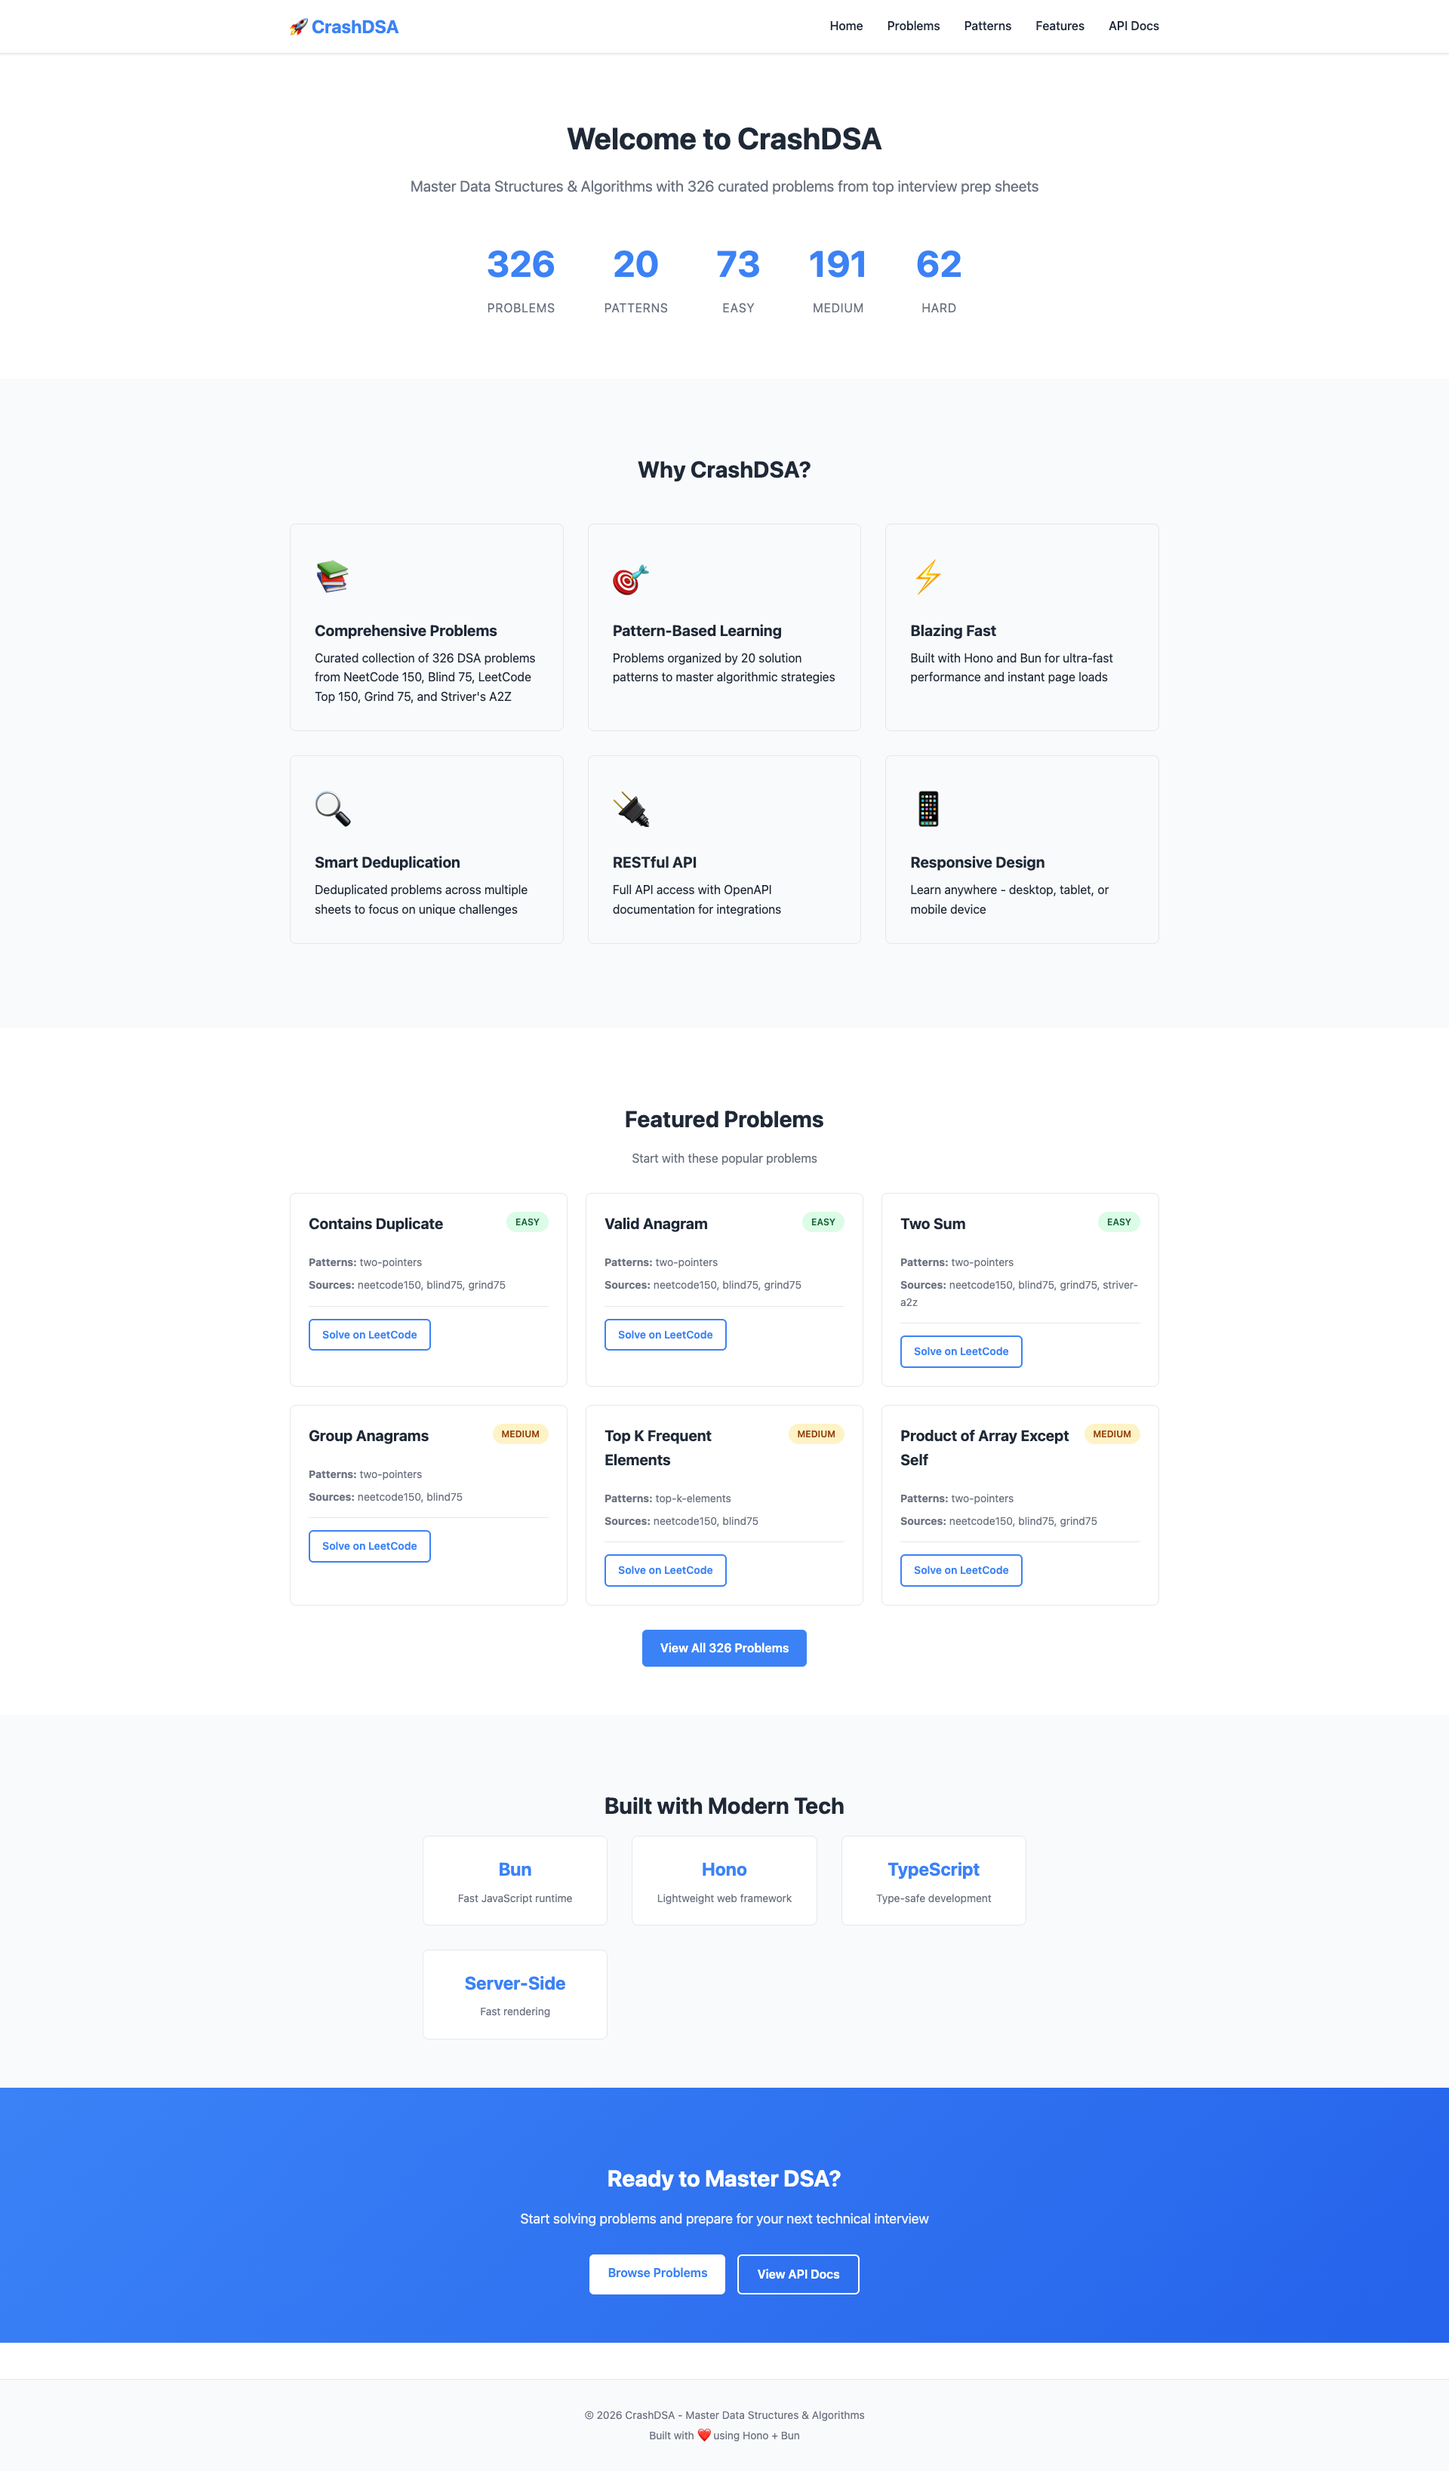
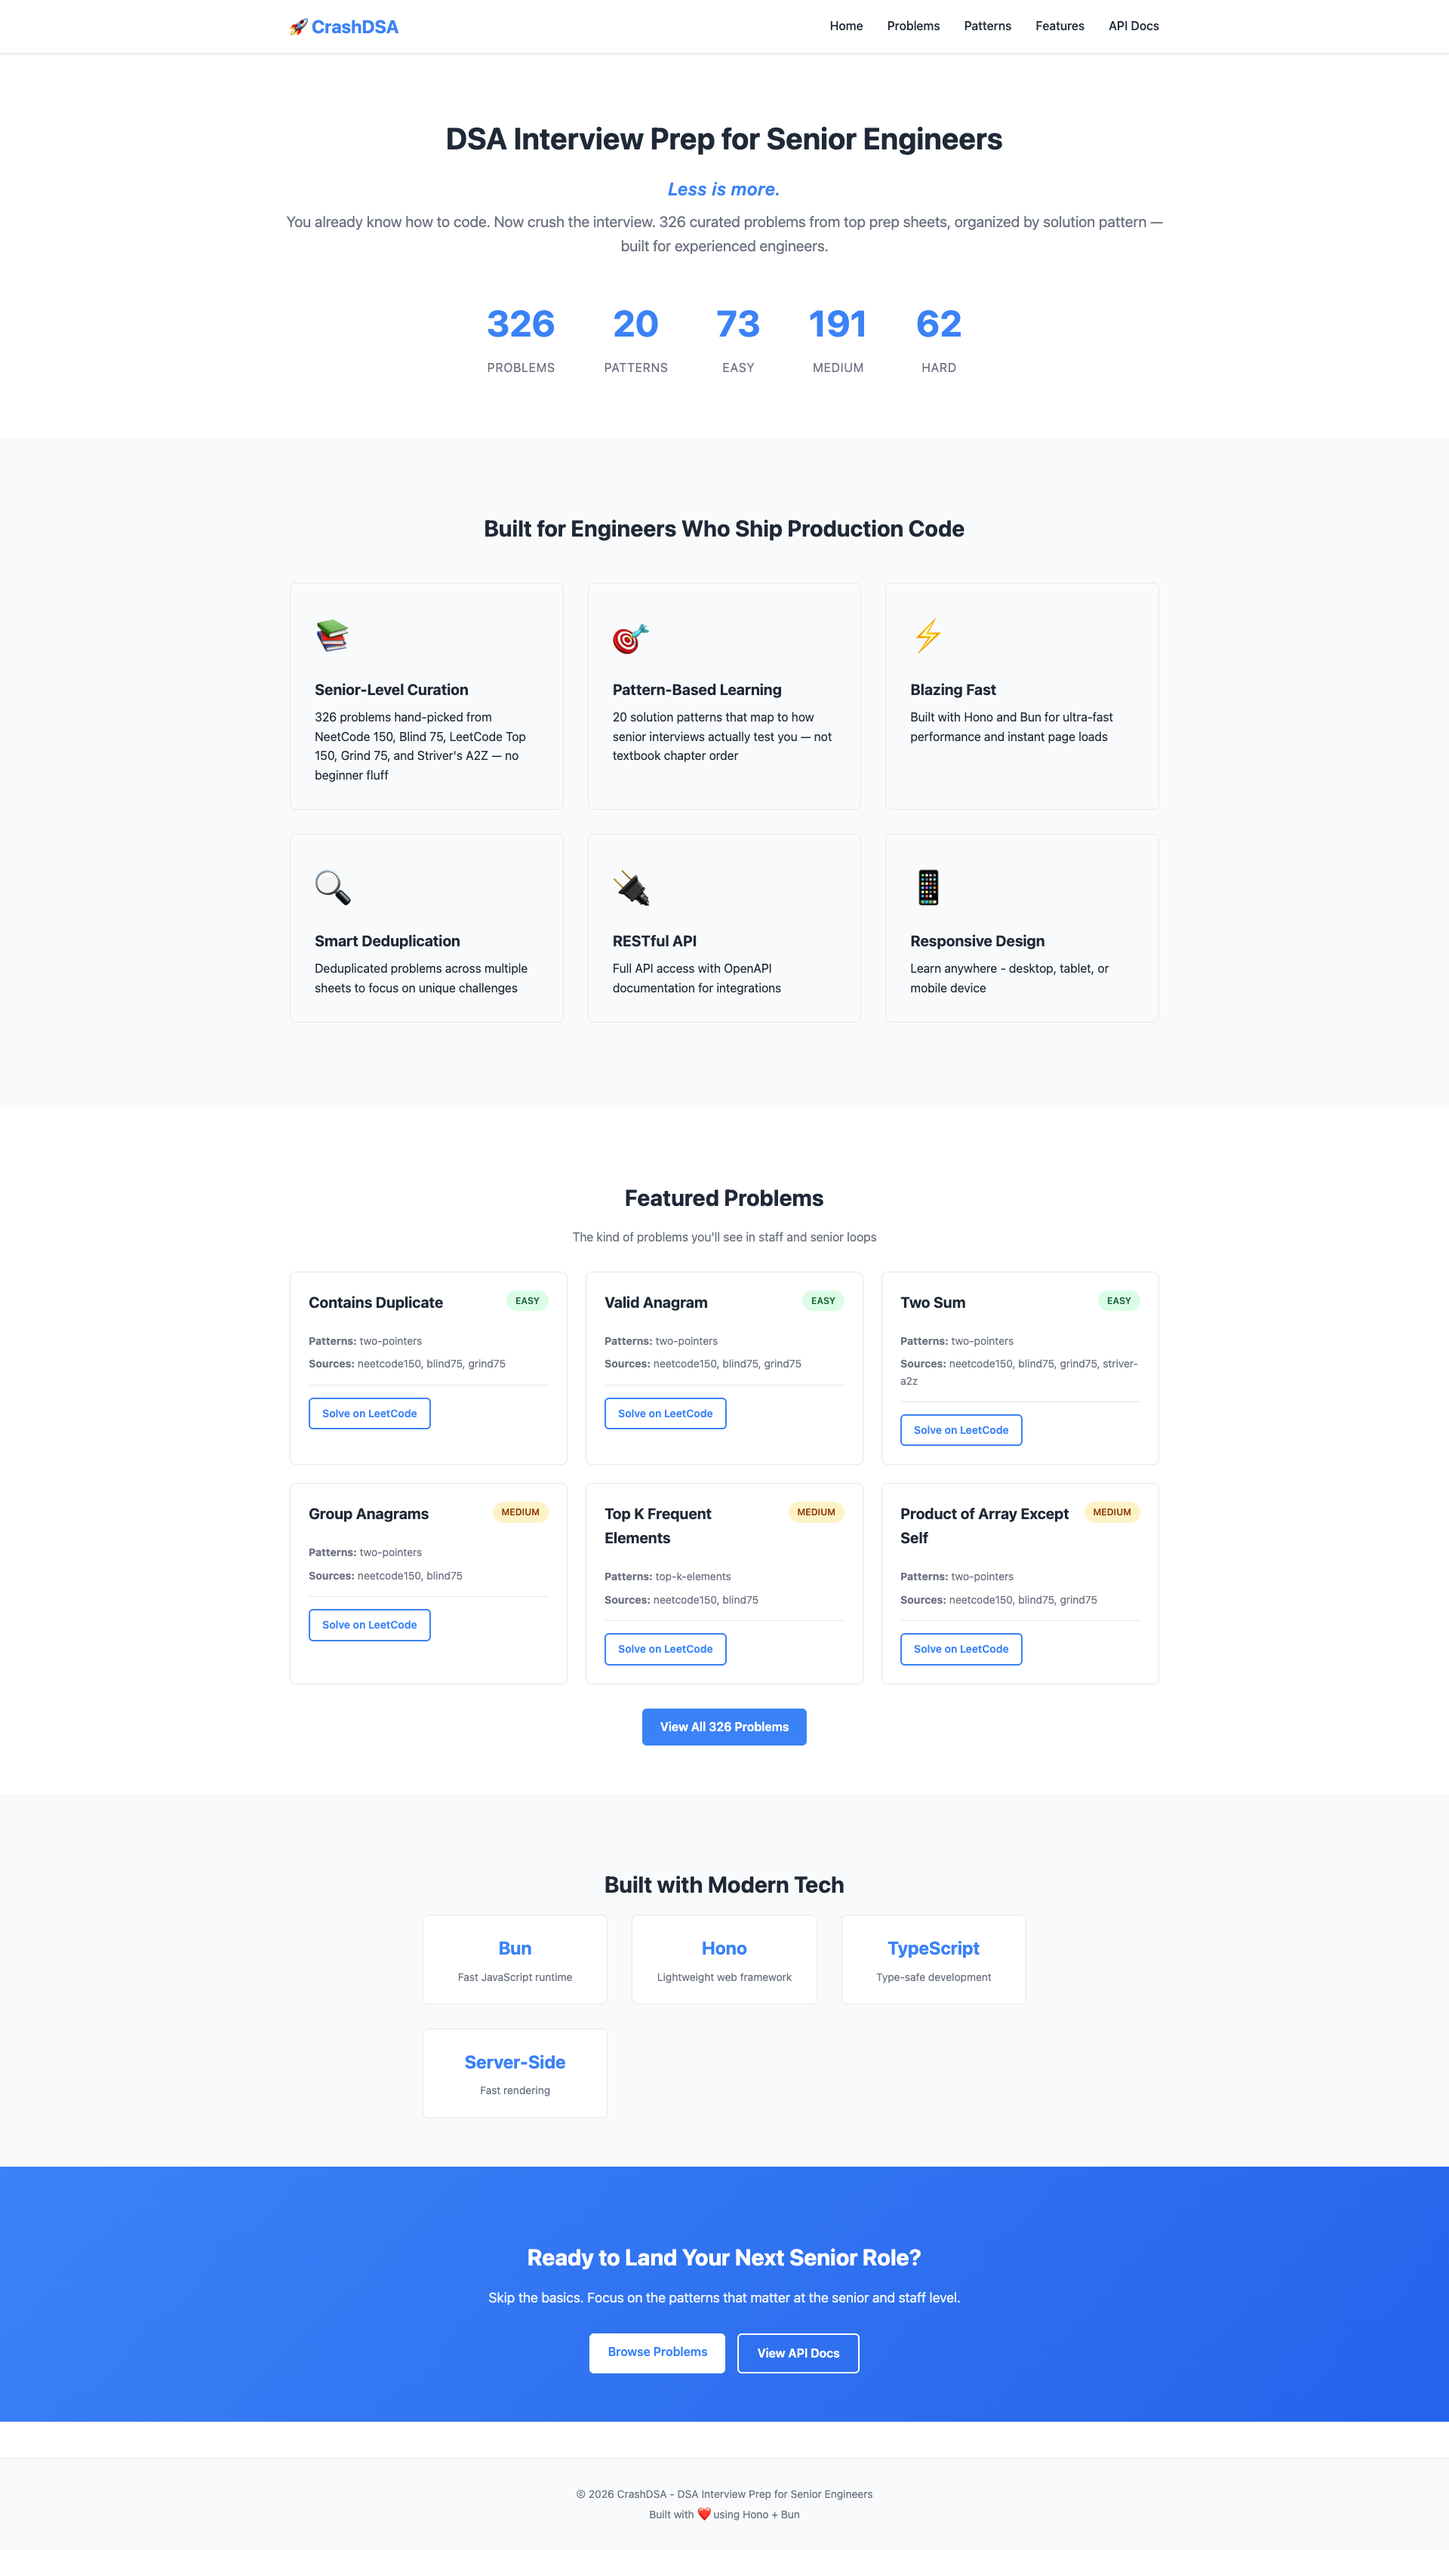
feat: emphasize senior engineer audience on landing page
Rewrite landing page copy to target experienced programmers preparing
for senior/staff interviews. Add "Less is more." tagline and update
hero, features, CTA, and footer messaging.

diff --git a/src/views/home-dynamic.ts b/src/views/home-dynamic.ts
@@ -14,7 +14,7 @@ export function homePageDynamic() {
 <head>
   <meta charset="UTF-8">
   <meta name="viewport" content="width=device-width, initial-scale=1.0">
-  <title>CrashDSA - Master Data Structures & Algorithms</title>
+  <title>CrashDSA - DSA Interview Prep for Senior Engineers</title>
   <link rel="stylesheet" href="/styles.css">
 </head>
 <body>
@@ -35,9 +35,10 @@ export function homePageDynamic() {
 
   <main class="main-content">
     <section class="container hero">
-      <h1>Welcome to CrashDSA</h1>
+      <h1>DSA Interview Prep for Senior Engineers</h1>
+      <p class="tagline">Less is more.</p>
       <p class="subtitle">
-        Master Data Structures & Algorithms with ${stats.total} curated problems from top interview prep sheets
+        You already know how to code. Now crush the interview. ${stats.total} curated problems from top prep sheets, organized by solution pattern — built for experienced engineers.
       </p>
       <div class="hero-stats">
         <div class="stat">
@@ -65,18 +66,18 @@ export function homePageDynamic() {
 
     <section id="features" class="features-section">
       <div class="container">
-        <h2 class="section-title">Why CrashDSA?</h2>
+        <h2 class="section-title">Built for Engineers Who Ship Production Code</h2>
         <div class="features">
           <div class="feature-card">
             <div class="feature-icon">📚</div>
-            <h3>Comprehensive Problems</h3>
-            <p>Curated collection of ${stats.total} DSA problems from NeetCode 150, Blind 75, LeetCode Top 150, Grind 75, and Striver's A2Z</p>
+            <h3>Senior-Level Curation</h3>
+            <p>${stats.total} problems hand-picked from NeetCode 150, Blind 75, LeetCode Top 150, Grind 75, and Striver's A2Z — no beginner fluff</p>
           </div>
 
           <div class="feature-card">
             <div class="feature-icon">🎯</div>
             <h3>Pattern-Based Learning</h3>
-            <p>Problems organized by ${patterns.length} solution patterns to master algorithmic strategies</p>
+            <p>${patterns.length} solution patterns that map to how senior interviews actually test you — not textbook chapter order</p>
           </div>
 
           <div class="feature-card">
@@ -109,7 +110,7 @@ export function homePageDynamic() {
     <section id="problems" class="problems-section">
       <div class="container">
         <h2 class="section-title">Featured Problems</h2>
-        <p class="section-subtitle">Start with these popular problems</p>
+        <p class="section-subtitle">The kind of problems you'll see in staff and senior loops</p>
 
         <div class="problems-grid">
           ${raw(featuredProblems.map(problem => `
@@ -163,8 +164,8 @@ export function homePageDynamic() {
 
     <section class="cta-section">
       <div class="container">
-        <h2>Ready to Master DSA?</h2>
-        <p>Start solving problems and prepare for your next technical interview</p>
+        <h2>Ready to Land Your Next Senior Role?</h2>
+        <p>Skip the basics. Focus on the patterns that matter at the senior and staff level.</p>
         <div class="cta">
           <a href="/problems" class="btn btn-primary">Browse Problems</a>
           <a href="/api-docs" class="btn btn-secondary">View API Docs</a>
@@ -175,7 +176,7 @@ export function homePageDynamic() {
 
   <footer class="footer">
     <div class="container">
-      <p>© 2026 CrashDSA - Master Data Structures & Algorithms</p>
+      <p>© 2026 CrashDSA - DSA Interview Prep for Senior Engineers</p>
       <p>Built with ❤ using Hono + Bun</p>
     </div>
   </footer>

diff --git a/src/styles/styles.css b/src/styles/styles.css
@@ -101,6 +101,15 @@ h3 {
   color: var(--text);
 }
 
+.tagline {
+  font-size: 1.5rem;
+  font-weight: 600;
+  font-style: italic;
+  color: var(--primary);
+  margin-bottom: 0.5rem;
+  letter-spacing: 0.02em;
+}
+
 .subtitle {
   font-size: 1.25rem;
   color: var(--text-secondary);
